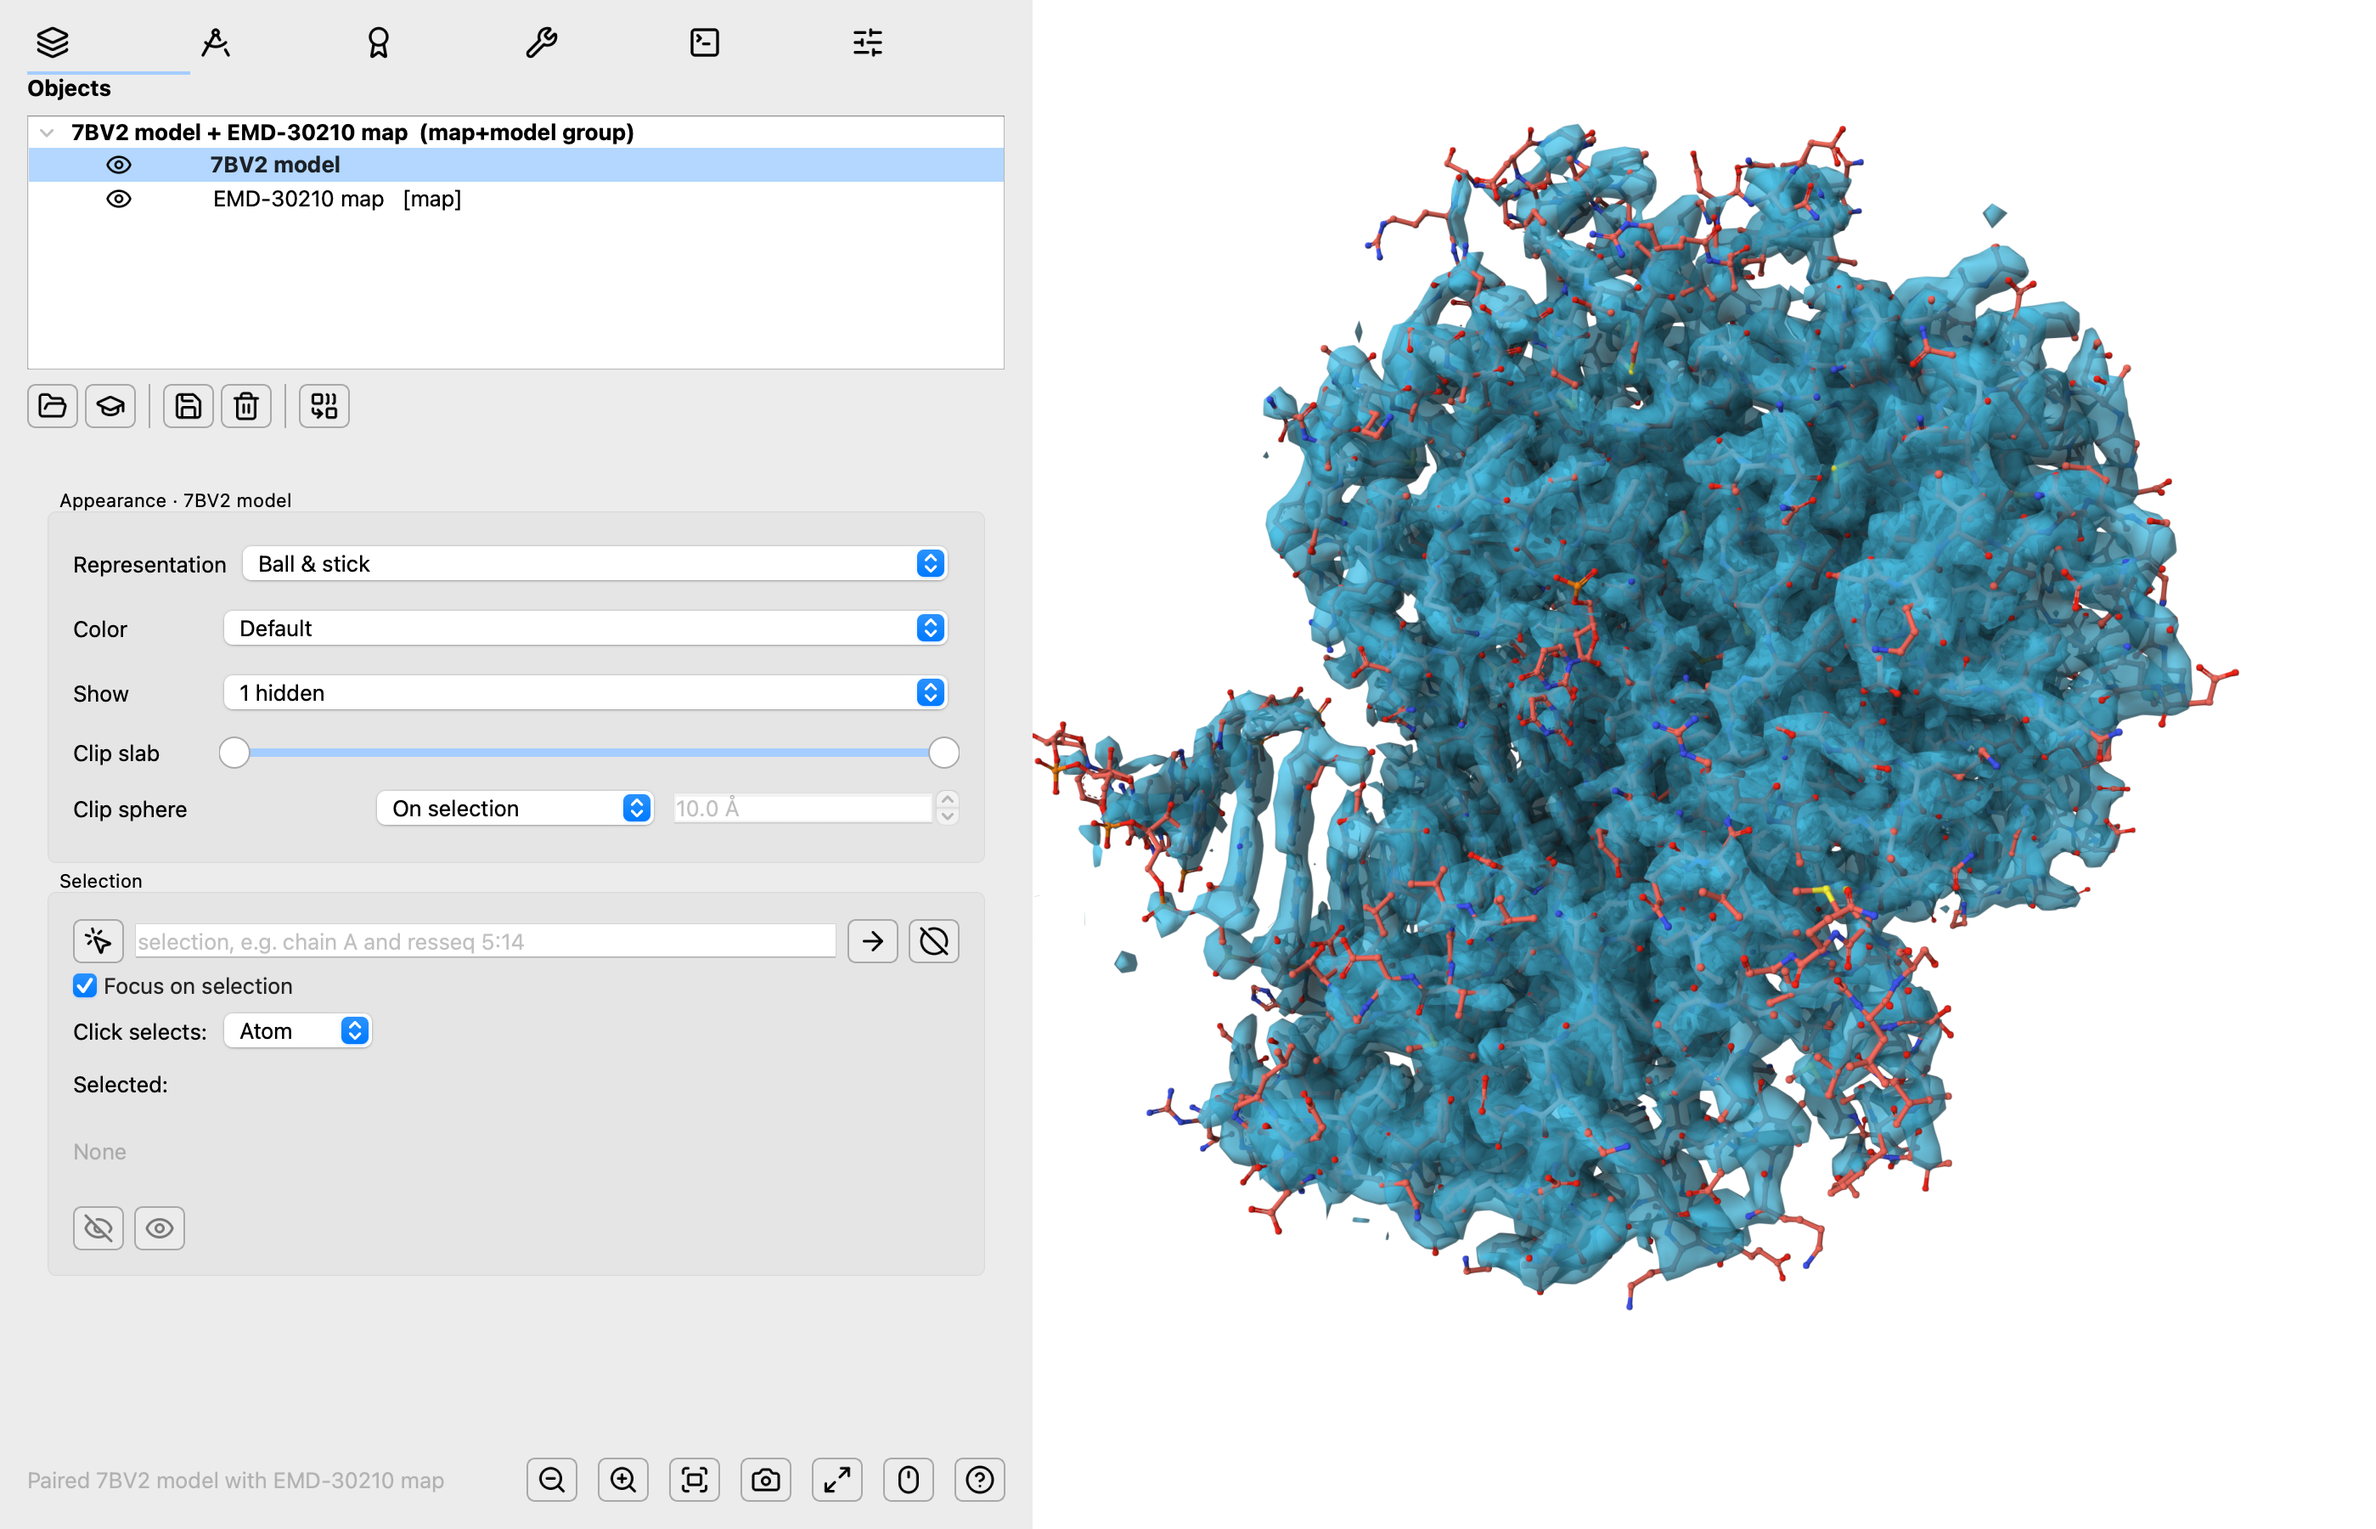
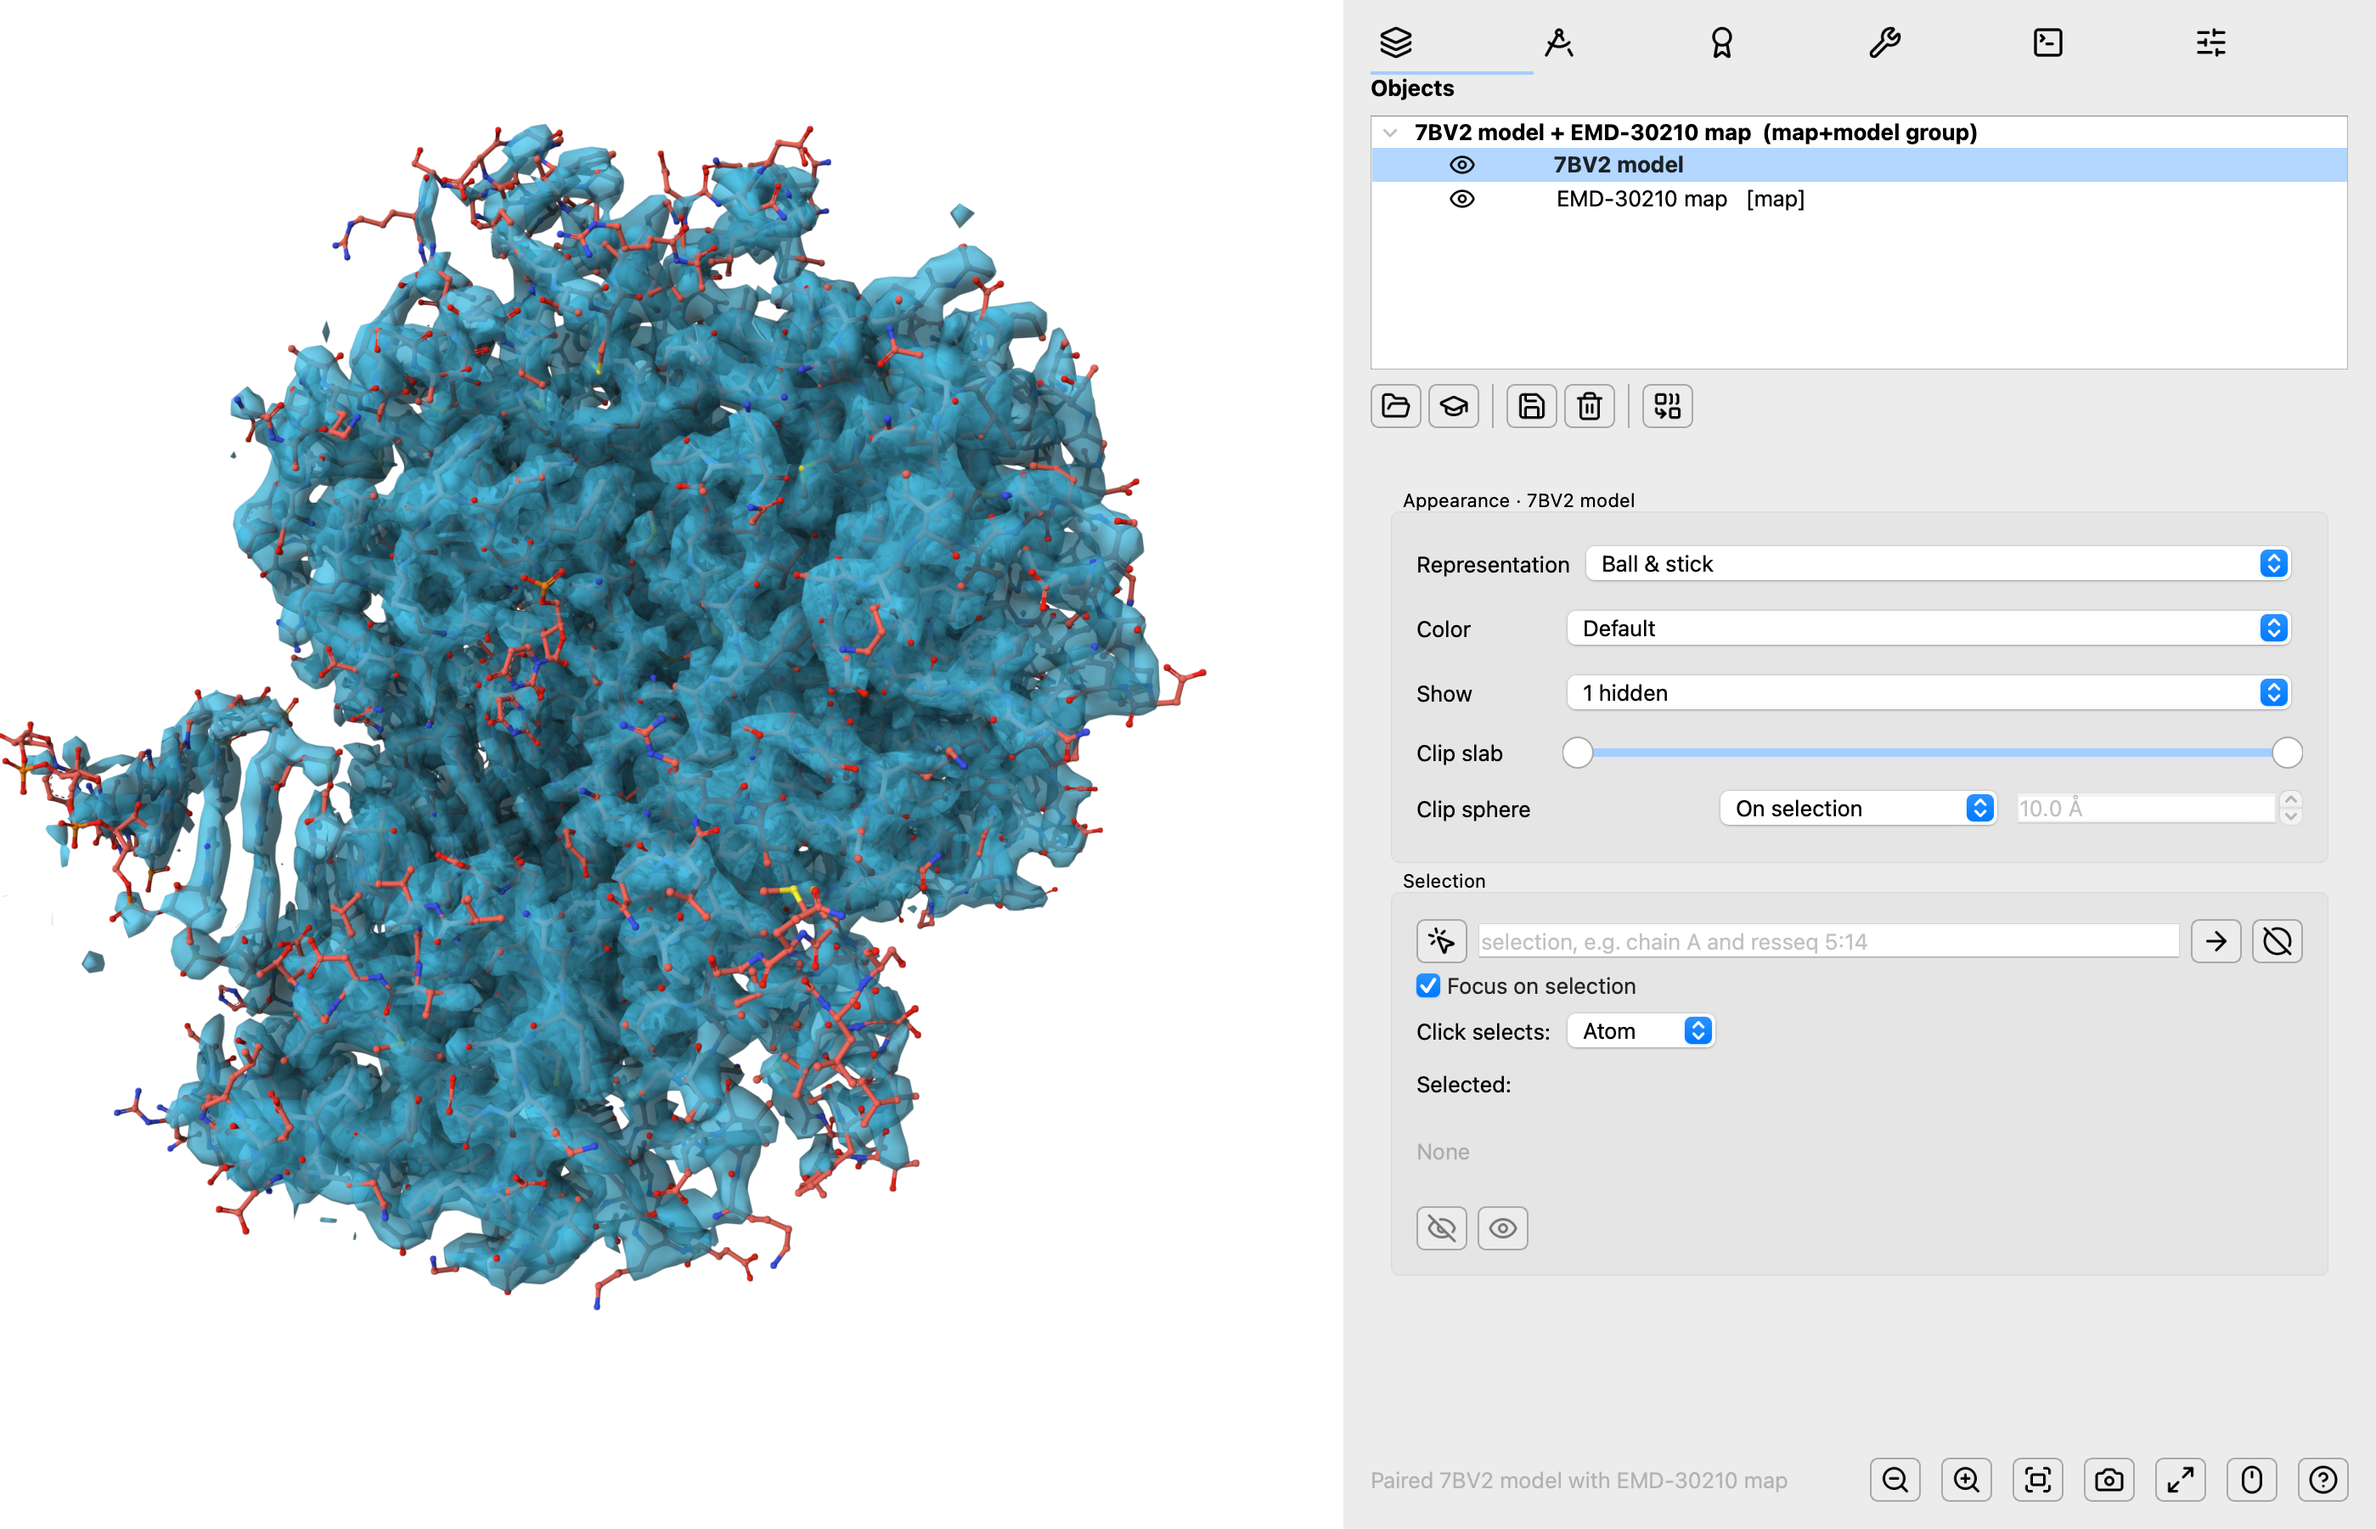
Match figure layout to the real window arrangement
The desktop puts the controls window to the right of the viewport, so
composite them in that order and update the caption to match.

diff --git a/paper/regen_figure.py b/paper/regen_figure.py
@@ -7,7 +7,7 @@ Usage::
 Loads the view into the real desktop app, waits for the Mol* page to come up
 and the saved camera to land, then writes the browser-side render to
 ``out.png``. ``--controls`` composites a Qt grab of the controls window to
-the left of the viewport, for full-GUI shots like the paper's Figure 1.
+the right of the viewport, for full-GUI shots like the paper's Figure 1.
 
 The viewport image comes from ``session.screenshot()`` — ``QWidget.grab()``
 on a QWebEngineView returns a blank frame, so the browser-side capture is the
@@ -33,7 +33,7 @@ from pxviewer.regression.visual.harness import (
 
 
 def _composite(app, viewport_png: bytes) -> bytes:
-    """Controls window (Qt grab) on the left, viewport render on the right."""
+    """Viewport render on the left, controls window (Qt grab) on the right."""
     from PIL import Image
 
     ctrl_path = Path(tempfile.mktemp(suffix=".png"))
@@ -44,8 +44,8 @@ def _composite(app, viewport_png: bytes) -> bytes:
     controls = controls.resize(
         (round(controls.width * height / controls.height), height))
     out = Image.new("RGB", (controls.width + view.width, height), "white")
-    out.paste(controls, (0, 0))
-    out.paste(view, (controls.width, 0))
+    out.paste(view, (0, 0))
+    out.paste(controls, (view.width, 0))
     buf = io.BytesIO()
     out.save(buf, "PNG")
     return buf.getvalue()

diff --git a/paper/pxviewer.tex b/paper/pxviewer.tex
@@ -76,10 +76,10 @@ remodelling both safer and faster.
   {\fbox{\parbox{0.9\textwidth}{\centering\vspace{3em}
    [screenshot placeholder --- save as \texttt{paper/fig\_gui.png}]
    \vspace{3em}}}}
-\caption{The \pxviewer{} desktop application. The controls window (left)
-organizes the session around the Scene, Geometry, Validation, Tools, Console
-and Settings tabs; the 3D viewport (right) is the Mol* frontend described in
-the text.}
+\caption{The \pxviewer{} desktop application. The 3D viewport (left) is the
+Mol* frontend described in the text; the controls window (right) organizes
+the session around the Scene, Geometry, Validation, Tools, Console and
+Settings tabs.}
 \label{fig:gui}
 \end{figure}
 
